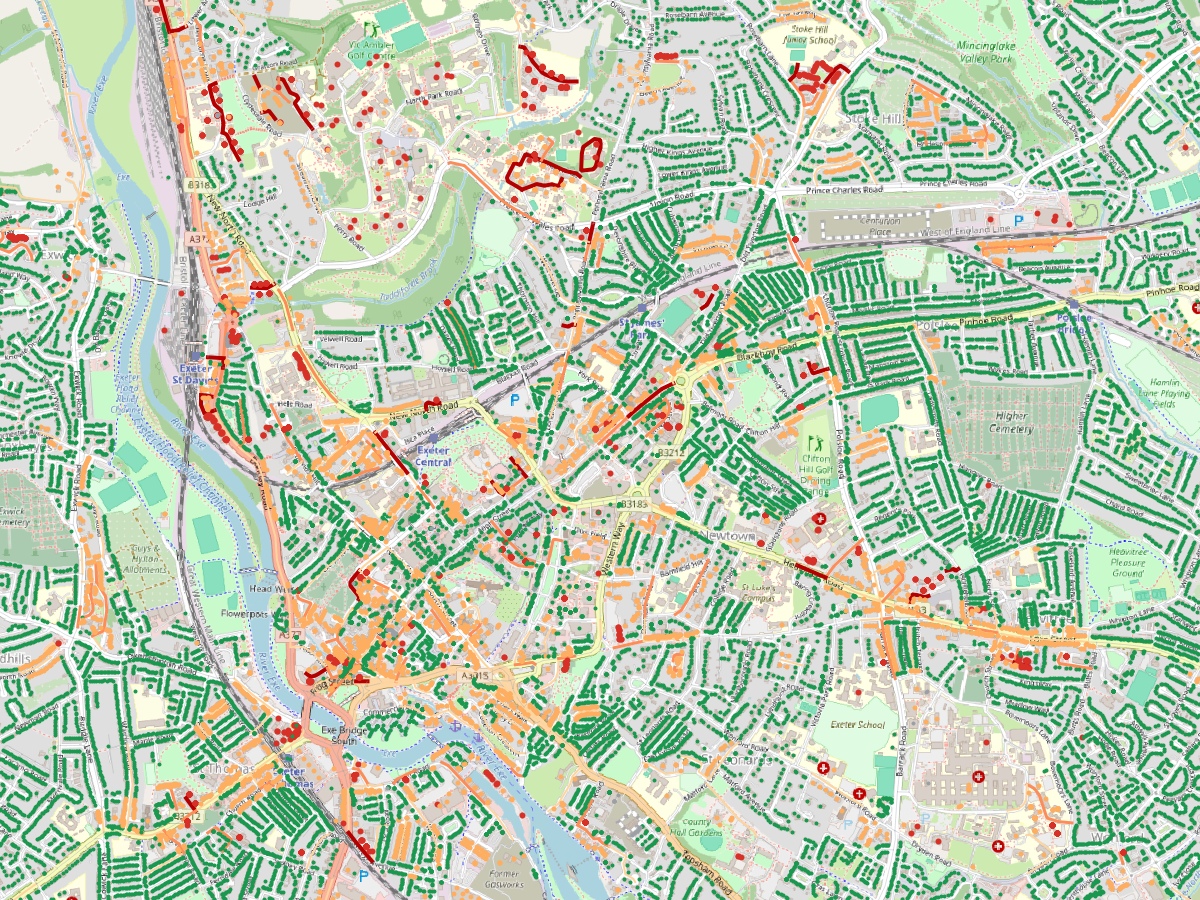
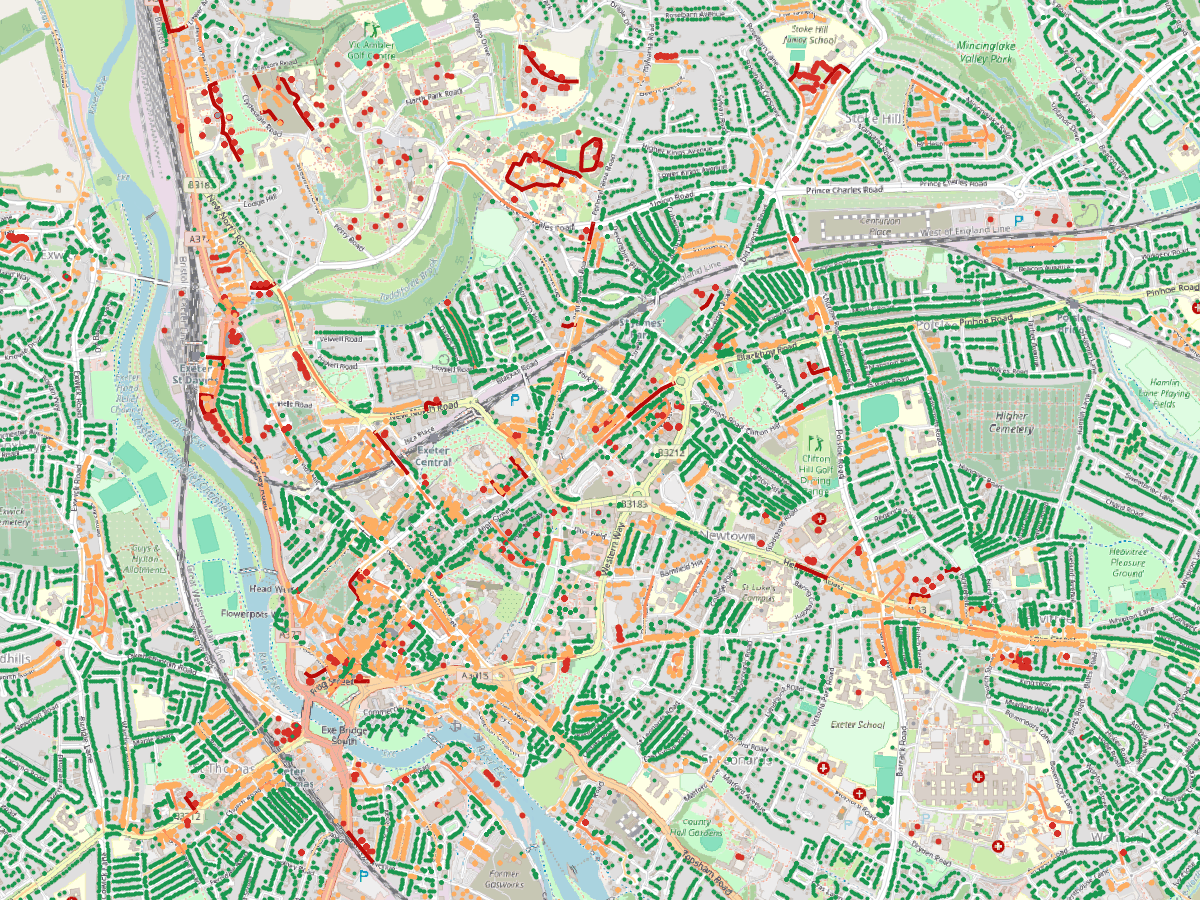
Keep README images under 1 MB: 256-colour PNGs
The pre-commit large-file check flagged both QGIS previews (2.1 MB and
1.7 MB), and phase 6 went in despite it. render_preview.py now saves a
median-cut 256-colour palette with Pillow (bundled with QGIS): about three
times smaller with no visible change.

diff --git a/qgis_project/render_preview.py b/qgis_project/render_preview.py
@@ -7,6 +7,7 @@ import sys
 from pathlib import Path
 
 from qgis.core import QgsApplication, QgsMapRendererParallelJob, QgsMapSettings, QgsProject, QgsRectangle
+from PIL import Image
 from qgis.PyQt.QtCore import QSize
 from qgis.PyQt.QtGui import QColor
 
@@ -41,6 +42,13 @@ def render(project: QgsProject, extent: QgsRectangle, hidden: set[str], out: Pat
     job.start()
     job.waitForFinished()
     ok = job.renderedImage().save(str(out), "png")
+    if ok:
+        # 256-colour median-cut palette (Pillow ships with QGIS): about 3x smaller with no
+        # visible change, which keeps README images under the 1 MB pre-commit limit
+        palette = (
+            Image.open(out).convert("RGB").quantize(256, Image.Quantize.MEDIANCUT, dither=Image.Dither.NONE)
+        )
+        palette.save(out, optimize=True)
     print(f"{'Rendered' if ok else 'FAILED'} {len(layers)} layers -> {out}")
     return ok
 
